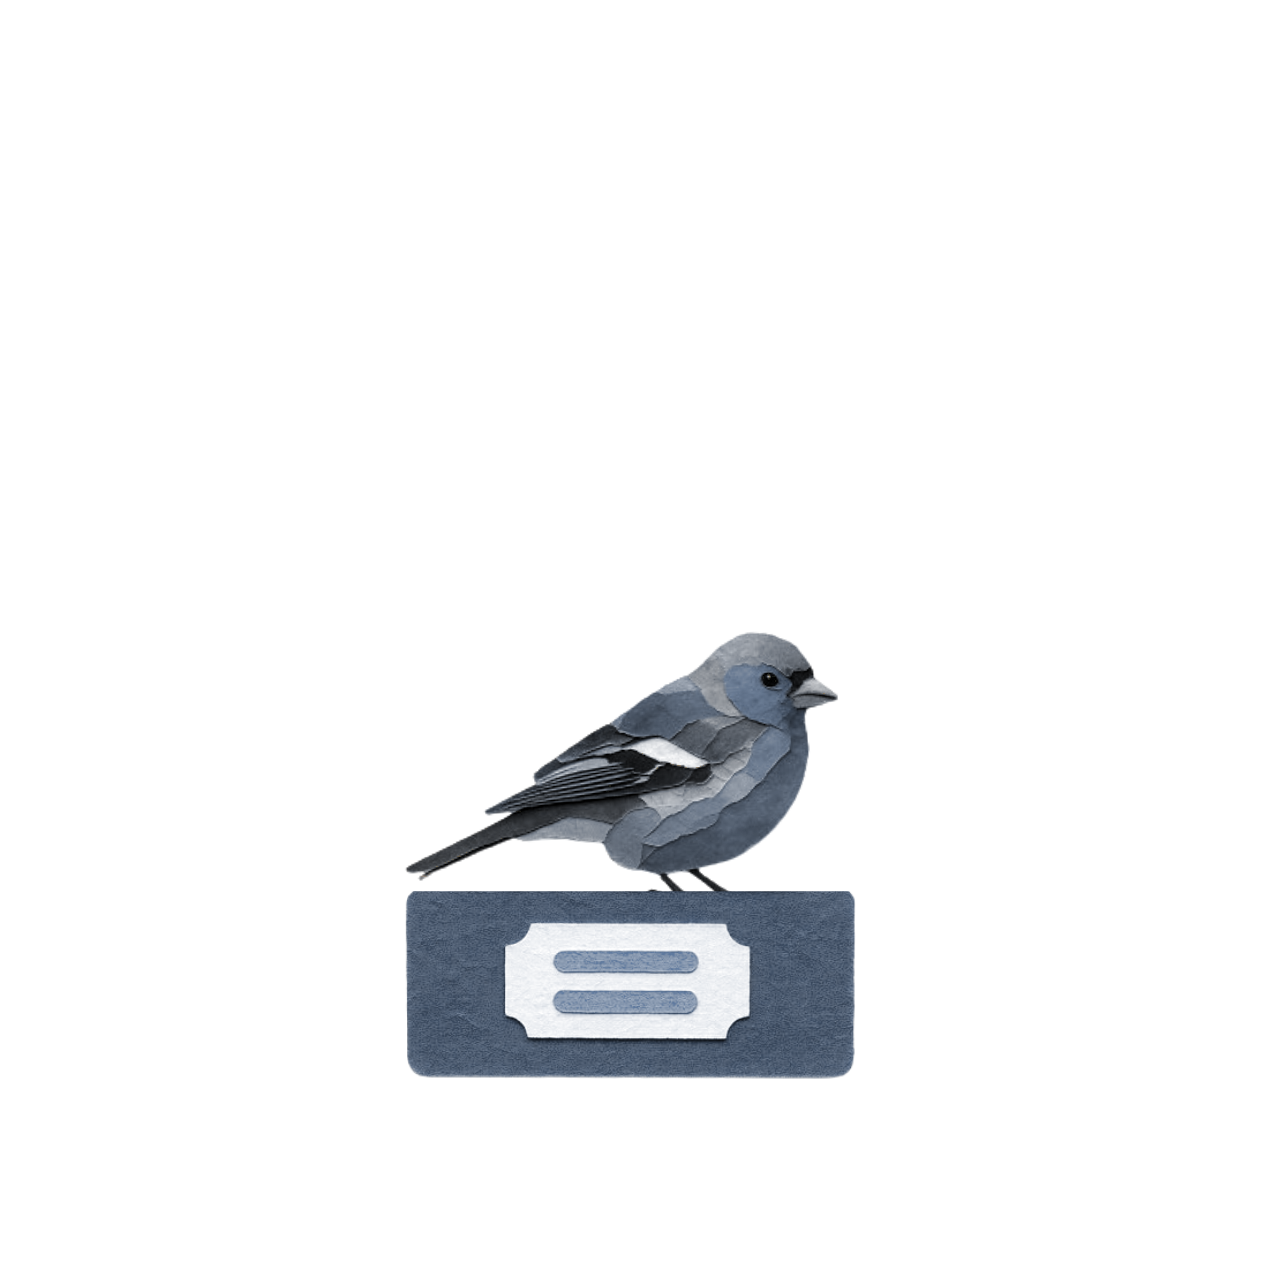
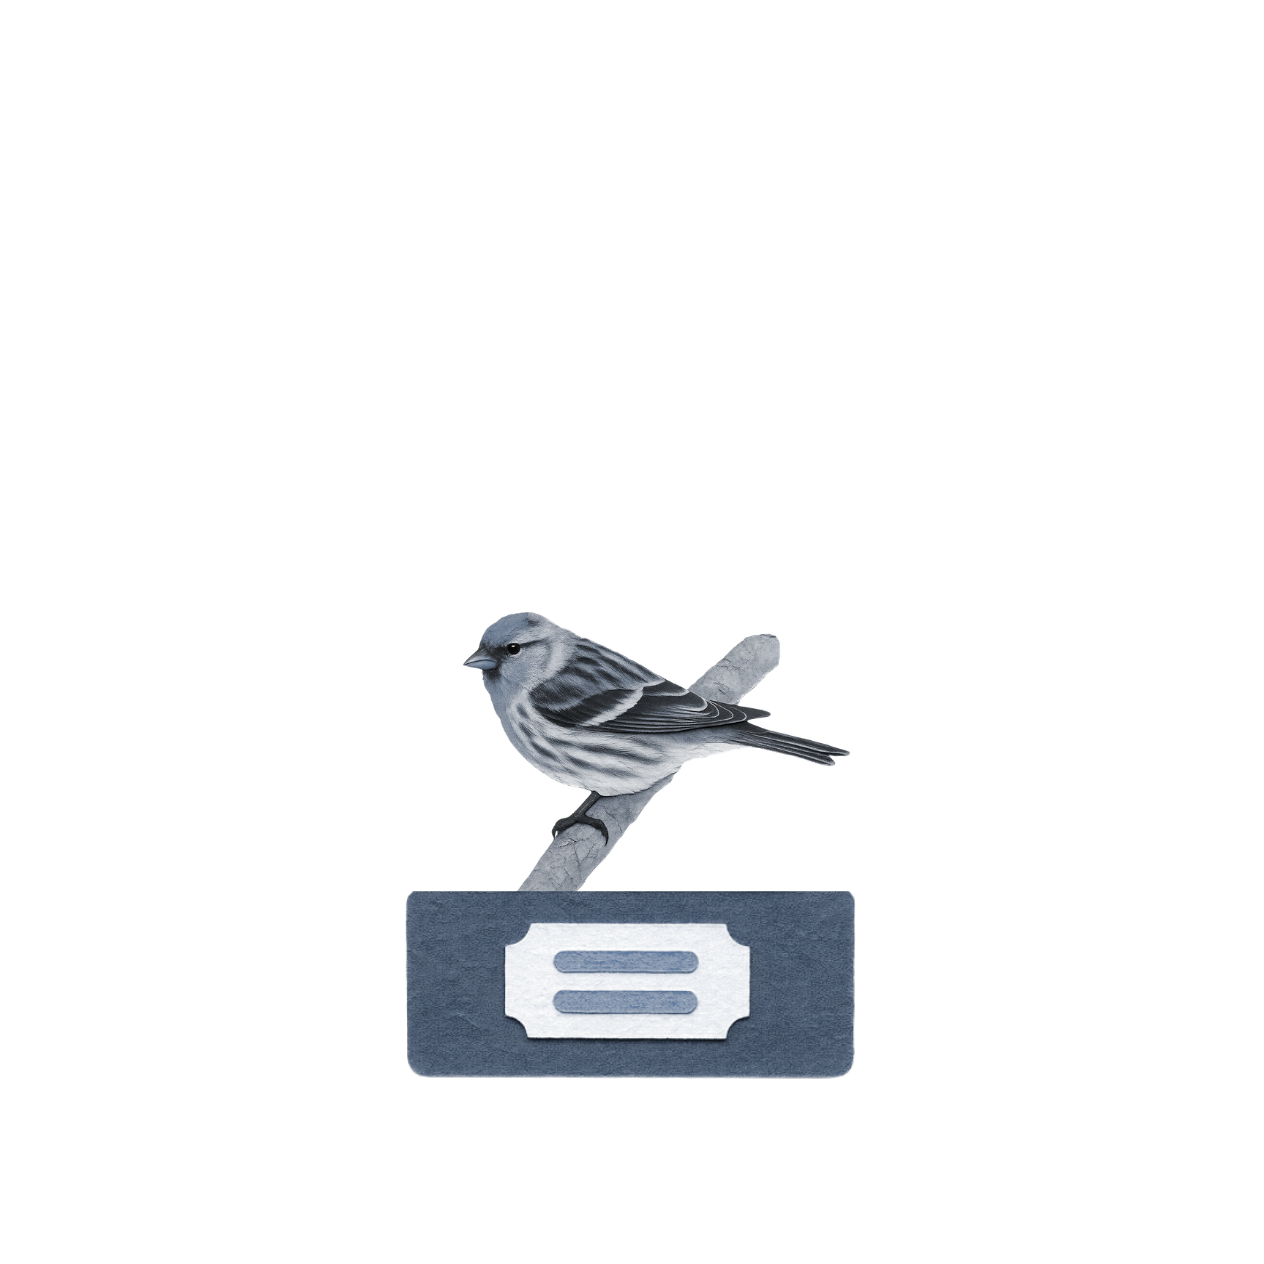
Trophee Fringilles : 6 nouveaux visuels papier-craft Canva (v2). Cache v168.

Changed region(s): [[0.3085, 0.4628, 0.6788, 0.7097]]

diff --git a/service-worker.js b/service-worker.js
@@ -3,7 +3,7 @@
 //   puis rafraichit en background. Prochain reload = nouvelle version.
 // - Requetes cross-origin (Firestore, iNaturalist, xeno-canto, Wikipedia, etc.) : reseau seul.
 // - Bump CACHE_VERSION quand on veut invalider volontairement.
-const CACHE_VERSION = 'v167-2026-09-15-tmodal-tier-img-plus-grand';
+const CACHE_VERSION = 'v168-2026-09-15-fringillidae-visuel-v2';
 const CACHE_NAME = 'lmb-' + CACHE_VERSION;
 
 self.addEventListener('install', (e) => {
